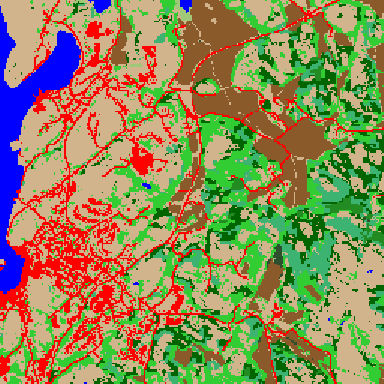
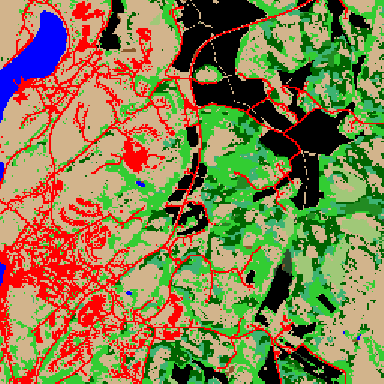
feat(dataset): remove inconsistent legacy nmd_label key
nmd_label only existed on ~985 legacy tiles and did NOT pixel-align with
the universal nmd_label_raw (~0.3 mapping purity — different NMD reads).
Nothing in training/inference read it (merge_all builds the label from
nmd_label_raw). Removed for a uniform schema.

- Data: stripped nmd_label from all 985 tiles that had it (0 errors);
  nmd_label_raw intact on 8281 (the 9-tile gap is pre-existing broken
  numeric tiles). Same verified strip as harvest_probability.
- Showcase renderer: NMD panel now derived from nmd_label_raw via
  nmd19_to_unified() so it renders on every tile (re-rendered nmd.png).
- cookie_cut_256_from_512.py no longer copies nmd_label.
- enrich_tiles_nmd_local.py (the sole writer of nmd_label) marked
  deprecated.
- Docs: metadata.json drops the nmd_label entry and marks nmd_label_raw
  required; README points NMD users at nmd_label_raw.

Verified-by: cluster re-audit 0/8290 tiles retain nmd_label, nmd_label_raw on 8281; served metadata nmd_label absent + nmd_label_raw required:true; nmd.png re-rendered 200 image/png and visually correct

diff --git a/scripts/render_dataset_showcase.py b/scripts/render_dataset_showcase.py
@@ -43,6 +43,18 @@ UNIFIED_COLORS = {
     21: (220, 200, 0), 22: (0, 206, 209),
 }
 
+# NMD 19-class (nmd_label_raw) -> unified NMD subset (0-10), so the NMD
+# panel renders from the universal nmd_label_raw on every tile.
+# Mirror of imint/training/unified_schema._NMD19_TO_UNIFIED.
+_NMD19_TO_UNIFIED = np.array(
+    [0, 1, 2, 3, 4, 6, 5, 5, 5, 5, 5, 7, 0, 8, 8, 9, 9, 9, 10, 10],
+    dtype=np.uint8,
+)
+
+
+def nmd19_to_unified(raw: np.ndarray) -> np.ndarray:
+    return _NMD19_TO_UNIFIED[np.clip(np.asarray(raw), 0, 19).astype(int)]
+
 
 def _pct_stretch(stack: np.ndarray) -> np.ndarray:
     """2-98 percentile stretch to [0,1] — the repo's display standard."""
@@ -153,8 +165,8 @@ def render(tile_path: str, out_dir: str, frame: int) -> dict:
     _save_rgb(rgb_image(spectral, frame), out / "rgb.png")
     _save_rgb(nir_cir_image(spectral, frame), out / "nir_cir.png")
     _save_rgb(colorize_label(label), out / "label.png")
-    if "nmd_label" in z.files:
-        _save_rgb(colorize_label(z["nmd_label"]), out / "nmd.png")
+    if "nmd_label_raw" in z.files:
+        _save_rgb(colorize_label(nmd19_to_unified(z["nmd_label_raw"])), out / "nmd.png")
     if "dem" in z.files:
         _save_heat(z["dem"], out / "dem.png", "terrain")
     if "height" in z.files:

diff --git a/scripts/enrich_tiles_nmd_local.py b/scripts/enrich_tiles_nmd_local.py
@@ -2,6 +2,12 @@
 """
 Enrich tiles with NMD labels from local GeoTIFF raster.
 
+DEPRECATED: this writes the `nmd_label` key, which has been removed from
+the dataset (it was an inconsistent legacy layer that did not pixel-align
+with the universal `nmd_label_raw`). The canonical NMD path is
+`build_labels.py`, which writes `nmd_label_raw` (NMD 19-class) and maps it
+into the unified `label`. Do not run this to re-add `nmd_label`.
+
 Much faster than openEO API (~1000 tiles/s vs 1 tile/15s).
 Reads NMD codes directly from nmd2018bas_ogeneraliserad_v1_1.tif
 using rasterio windowed reads.

diff --git a/scripts/cookie_cut_256_from_512.py b/scripts/cookie_cut_256_from_512.py
@@ -46,7 +46,7 @@ import numpy as np
 
 # Keys that are spatial (need cropping) — both H and W dims
 SPATIAL_2D_KEYS = (
-    "label", "label_mask", "nmd_label", "nmd_label_raw",
+    "label", "label_mask", "nmd_label_raw",
     "dem", "height", "volume", "basal_area", "diameter",
     "harvest_mask",
     "vpp_sosd", "vpp_eosd", "vpp_length", "vpp_maxv", "vpp_minv",

diff --git a/docs/data/unified_v2_256_README.md b/docs/data/unified_v2_256_README.md
@@ -99,8 +99,8 @@ metrics), `dem` (Copernicus DEM), and `vpp_sosd`, `vpp_eosd`, `vpp_length`,
 
 > The synthetic `harvest_probability` channel was dropped (it leaked the
 > harvest target into the input). The real SKS layer `harvest_mask` is
-> kept. For NMD, use `nmd_label_raw` (present on every tile); the legacy
-> `nmd_label` is inconsistent and present only on old tiles.
+> kept. For NMD use `nmd_label_raw` (NMD 19-class, on every tile) — the
+> legacy `nmd_label` key was removed (it didn't pixel-align with it).
 
 Optional extras (present only when the paired `has_*` flag is set):
 `rededge` (12 bands), `s1_vv_vh` (Sentinel-1), `tessera` (128-dim